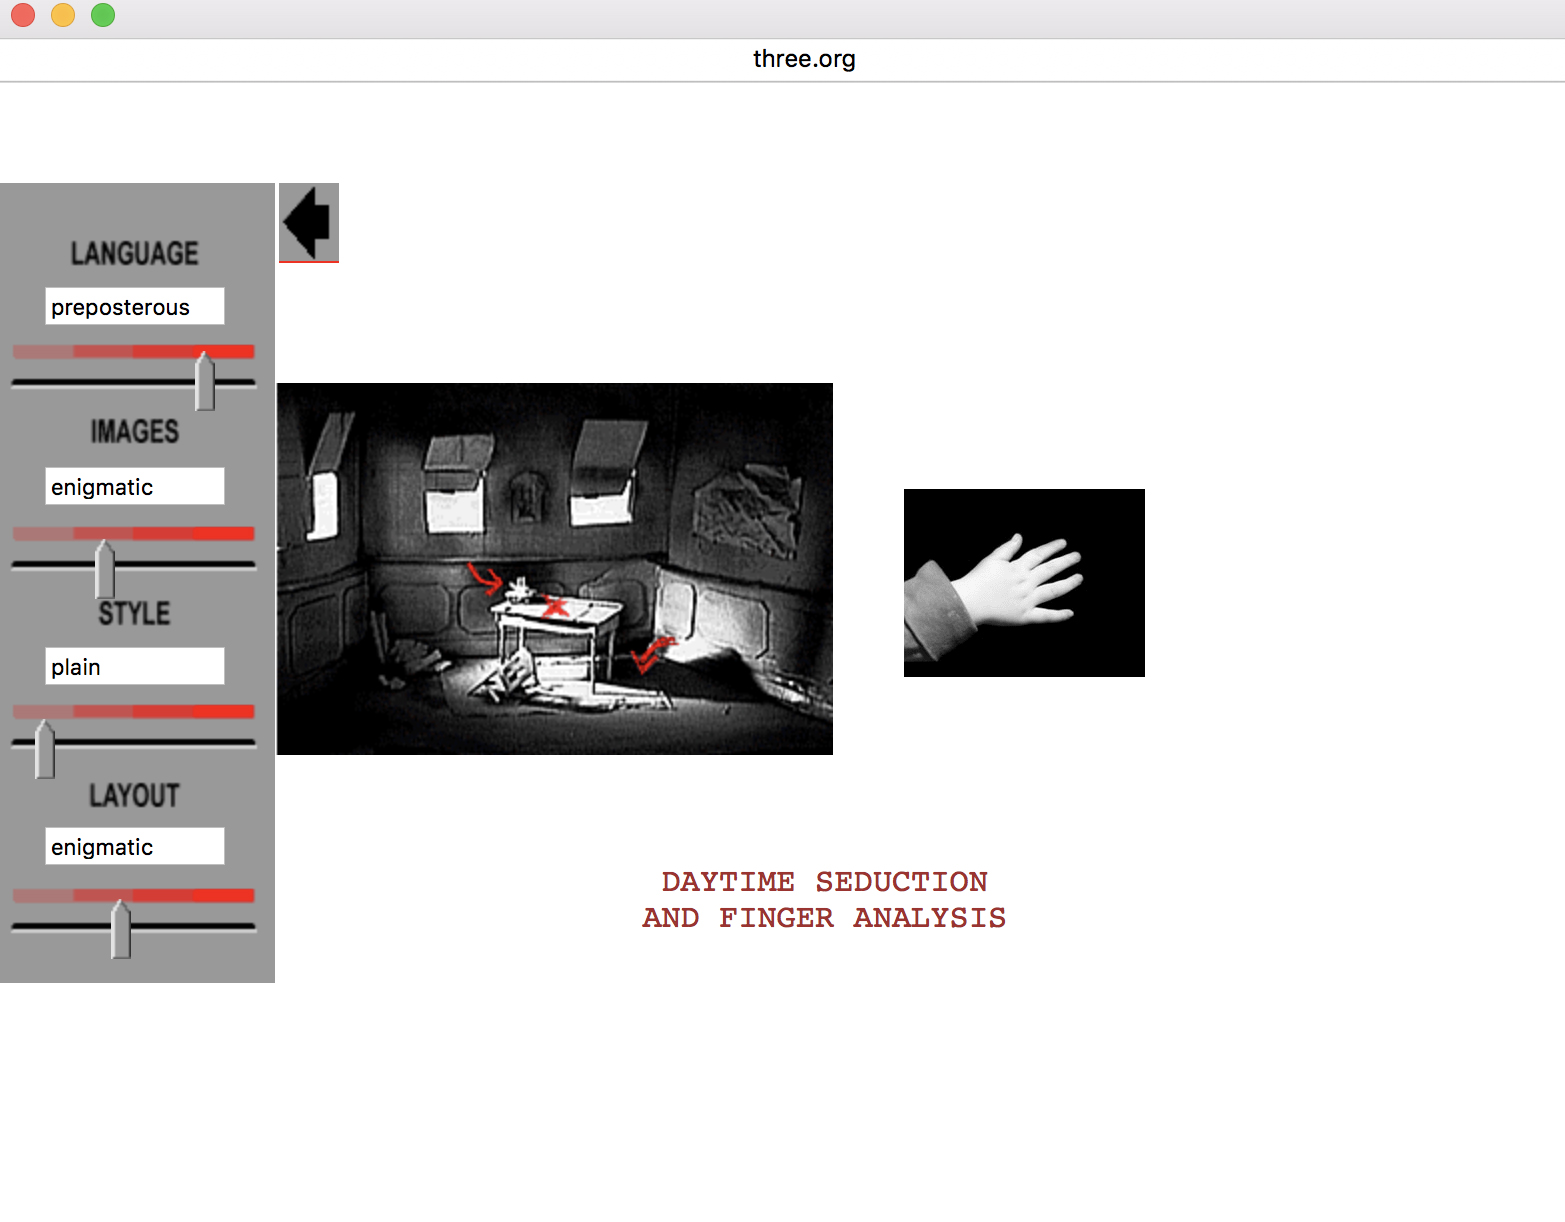
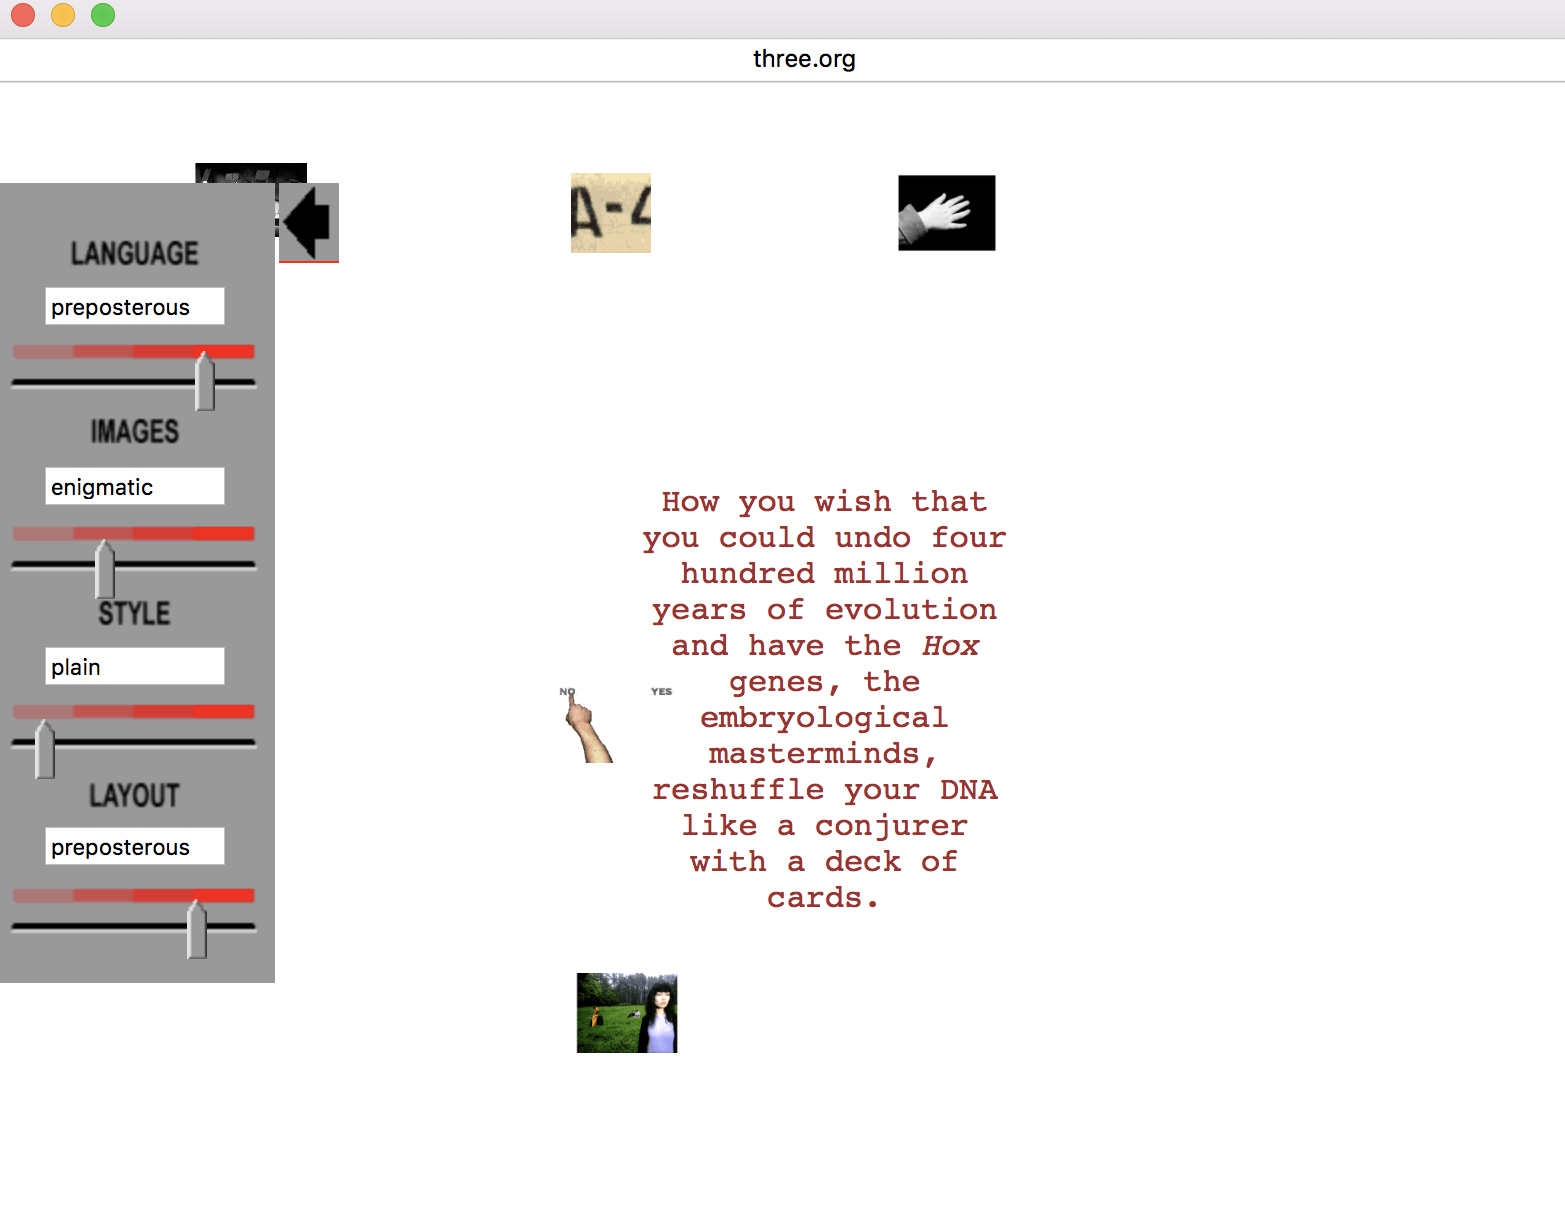
record2

diff --git a/it4.html b/it4.html
@@ -1,13 +1,15 @@
 <img src="space/z/image-text/it4.jpg">
 <h4>The Unreliable Archivist</h4>
 <p>
-When the archive is opened, oddity is what expels from it. There is a grainy screen with a small image and off to the left are a collection of sliders. The sliders decide whether the object being affected will be plain, enigmatic, loaded, or preposterous. This can change anything from the background to the words that caption the images. And as one can guess, the things being changed go from believable to just downright weird.
+		- Janet Cohen, Keith Frank, and Jon Ippolito<br><br>
+When the archive is opened, oddity is what expels from it. There is a grainy screen with a small image and off to the left are a collection of sliders. The sliders decide whether the object being affected will be plain, enigmatic, loaded, or preposterous. This can change anything from the background to the words that caption the images. And as one can guess, the things being changed go from believable to just downright weird.There is an apparent deviation in the interpretation between texts and images.
 </p> 
+<p><a href="http://www.three.org/z/UA/">You can play it here!</a></p>
 
 <div>
 	.image x .text
 	<div style="float: right">
-		<span class="itIndexL" > << </span>&nbsp;&nbsp;&nbsp;<span class="itIndexR"> >> </span>
+		<span class="itIndexL" > <<--- </span>&nbsp;&nbsp;&nbsp;
 	</div>
 </div>
 

diff --git a/it1.html b/it1.html
@@ -1,7 +1,8 @@
 <img src="space/z/image-text/it1.jpg">
 <h4>The Unreliable Archivist</h4>
 <p>
-When the archive is opened, oddity is what expels from it. There is a grainy screen with a small image and off to the left are a collection of sliders. The sliders decide whether the object being affected will be plain, enigmatic, loaded, or preposterous. This can change anything from the background to the words that caption the images. And as one can guess, the things being changed go from believable to just downright weird.
+		- Janet Cohen, Keith Frank, and Jon Ippolito<br><br>
+When the archive is opened, oddity is what expels from it. There is a grainy screen with a small image and off to the left are a collection of sliders. The sliders decide whether the object being affected will be plain, enigmatic, loaded, or preposterous. This can change anything from the background to the words that caption the images. And as one can guess, the things being changed go from believable to just downright weird.There is an apparent deviation in the interpretation between texts and images.
 </p> 
 
 <div>

diff --git a/it2.html b/it2.html
@@ -1,7 +1,8 @@
 <img src="space/z/image-text/it2.jpg">
 <h4>The Unreliable Archivist</h4>
 <p>
-When the archive is opened, oddity is what expels from it. There is a grainy screen with a small image and off to the left are a collection of sliders. The sliders decide whether the object being affected will be plain, enigmatic, loaded, or preposterous. This can change anything from the background to the words that caption the images. And as one can guess, the things being changed go from believable to just downright weird.
+		- Janet Cohen, Keith Frank, and Jon Ippolito<br><br>
+When the archive is opened, oddity is what expels from it. There is a grainy screen with a small image and off to the left are a collection of sliders. The sliders decide whether the object being affected will be plain, enigmatic, loaded, or preposterous. This can change anything from the background to the words that caption the images. And as one can guess, the things being changed go from believable to just downright weird.There is an apparent deviation in the interpretation between texts and images.
 </p> 
 
 <div>

diff --git a/it3.html b/it3.html
@@ -1,7 +1,8 @@
 <img src="space/z/image-text/it3.jpg">
 <h4>The Unreliable Archivist</h4>
 <p>
-When the archive is opened, oddity is what expels from it. There is a grainy screen with a small image and off to the left are a collection of sliders. The sliders decide whether the object being affected will be plain, enigmatic, loaded, or preposterous. This can change anything from the background to the words that caption the images. And as one can guess, the things being changed go from believable to just downright weird.
+		- Janet Cohen, Keith Frank, and Jon Ippolito<br><br>
+When the archive is opened, oddity is what expels from it. There is a grainy screen with a small image and off to the left are a collection of sliders. The sliders decide whether the object being affected will be plain, enigmatic, loaded, or preposterous. This can change anything from the background to the words that caption the images. And as one can guess, the things being changed go from believable to just downright weird.There is an apparent deviation in the interpretation between texts and images.
 </p> 
 
 <div>

diff --git a/id1.html b/id1.html
@@ -1,7 +1,7 @@
 <img src="space/z/image-data/id1.png">
-<h4>Data Diaries</h4>
+<h4>Data Diaries - Cory Arcangel</h4>
 <p>
-Arcangel transcoded this raw material into a new format, the QuickTime video, using the constraints of viewing over a 56k modem to define the size and bitrate of each file. To emphasize the arbitrariness of this conversion process, Arcangel generated two videos from each set of dataâ€”color and black-and-white. In the resulting clips, geometric blocks appear in fluctuating densities on a solid background, accompanied by a soundtrack of digital noise.
+Data Diaries is 11 hours of video footage which was generated by tricking Quicktime into thinking the RAM of a home computer is video. This was done once for each day in January 2003. Watch as Cory's emails, letters, webpages, DSL data, songs, and anything else he worked on that day float by as a totally-psyched attention deficit disorder 15 frames per second video experience.
 </p> 
 
 <div>

diff --git a/it0.html b/it0.html
@@ -1,13 +1,9 @@
 <img src="space/z/image-text/it0.jpg">
-<h4>The Unreliable Archivist</h4>
-<p>
-When the archive is opened, oddity is what expels from it. There is a grainy screen with a small image and off to the left are a collection of sliders. The sliders decide whether the object being affected will be plain, enigmatic, loaded, or preposterous. This can change anything from the background to the words that caption the images. And as one can guess, the things being changed go from believable to just downright weird.
-</p> 
-<p><a href="http://www.three.org/z/UA/">You can play it here!</a></p>
+
 <div>
 	.image x .text
 	<div style="float: right">
-		<span class="itIndexL" > << </span>&nbsp;&nbsp;&nbsp;<span class="itIndexR"> >> </span>
+		&nbsp;&nbsp;&nbsp;<span class="itIndexR"> --->> </span>
 	</div>
 </div>
 

diff --git a/mi2.html b/mi2.html
@@ -1,14 +1,11 @@
-<img src="space/z/math-image/mi2.jpg">
-<h4>Hilbert Curve</h4>
-<h4>Yearbook Photos
-2000 | Golan Levin</h4>
-
+<iframe src="https://player.vimeo.com/video/134050005"  frameborder="0" webkitallowfullscreen mozallowfullscreen allowfullscreen></iframe>
+<h4>The Planck Universe - Ryoji Ikeda</h4>
 
 
 <div>
 	.math x .image
 	<div style="float: right">
-		<span class="miIndexL" > << </span>&nbsp;&nbsp;&nbsp;<span class="miIndexR"> >> </span>
+		<span class="miIndexL" > <<--- </span>&nbsp;&nbsp;&nbsp;
 	</div>
 </div>
 

diff --git a/0index.html b/0index.html
@@ -35,6 +35,7 @@
 				color: blue;
 			}
 
+
 			.sCenter {
 				position: fixed;
 				width: 100%;
@@ -179,9 +180,9 @@
 		<script>
 
 //	overall
-			var cD=3, cT=2, cI=8, cM=5, cP=4, cB=7, cN=3, cA=2, cDT=2, cMB=1, 
+			var cD=3, cT=2, cI=8, cM=5, cP=4, cB=7, cN=3, cA=2, cDT=2, cMB=4, 
 			cMP=2, cMI=5, cPI=0, cPN=0, cPB=2, cBI=3, cBD=3, cBT=2, 
-			cBA=4, cBN=2, cNA=2, cAI=3, cID=4, cIT=6;
+			cBA=4, cBN=2, cNA=2, cAI=3, cID=3, cIT=6;
 //	init
 			$("#space").click(function(){
 

diff --git a/id3.html b/id3.html
@@ -1,5 +1,6 @@
-<img src="space/z/image-data/id3.jpg">
-<h4>Data Diaries</h4>
+<iframe src="https://player.vimeo.com/video/132027051" frameborder="0" webkitallowfullscreen mozallowfullscreen allowfullscreen></iframe>
+
+<h4>Data Diaries - Cory Arcangel</h4>
 <p>
 
 </p> 
@@ -7,6 +8,6 @@
 <div>
 	.image x .data
 	<div style="float: right">
-		<span class="idIndexL" > << </span>&nbsp;&nbsp;&nbsp;
+		<span class="idIndexL" > <<--- </span>&nbsp;&nbsp;&nbsp;
 </div>
 

diff --git a/mb0.html b/mb0.html
@@ -1,15 +1,9 @@
 <img src="space/z/math-building/mb0.jpg">
-<h4>Transformation</h4>
-<p>
-Loos scale raumplan muller house
-
-
-</p> 
 
 <div>
 	.math x .building
 	<div style="float: right">
-		<span class="mbIndexL" > << </span>&nbsp;&nbsp;&nbsp;<span class="mbIndexR"> >> </span>
+		&nbsp;&nbsp;&nbsp;<span class="mbIndexR"> --->> </span>
 	</div>
 </div>
 

diff --git a/mi0.html b/mi0.html
@@ -1,14 +1,10 @@
 <img src="space/z/math-image/mi0.jpg">
-<h4>Hilbert Curve</h4>
-<h4>Yearbook Photos
-2000 | Golan Levin</h4>
-
 
 
 <div>
 	.math x .image
 	<div style="float: right">
-		<span class="miIndexL" > << </span>&nbsp;&nbsp;&nbsp;<span class="miIndexR"> >> </span>
+		&nbsp;&nbsp;&nbsp;<span class="miIndexR"> --->> </span>
 	</div>
 </div>
 

diff --git a/id2.html b/id2.html
@@ -1,5 +1,5 @@
 <img src="space/z/image-data/id2.png">
-<h4>Data Diaries</h4>
+<h4>Data Diaries - Cory Arcangel</h4>
 <p>
 The videos were, in large part, created by the computer itself. Made to function abnormally as a result of minimal artistic intervention, the machine simply rendered a normally unseen part of its memory in a tangible form.
 </p> 
